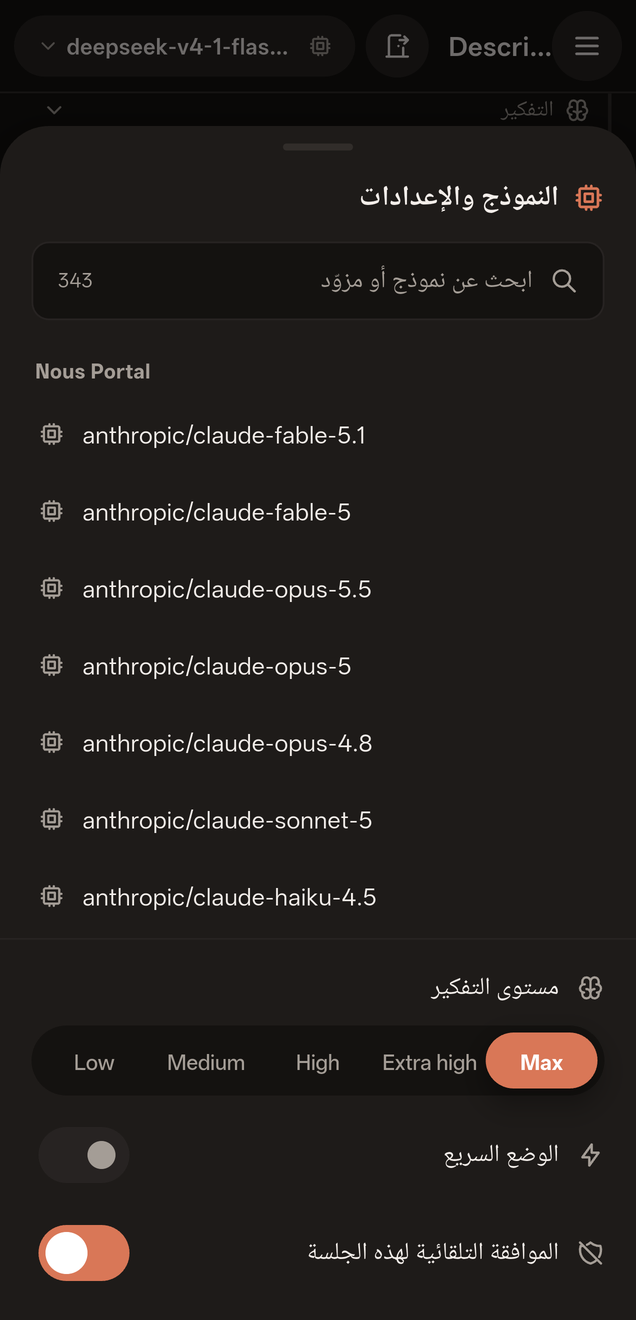
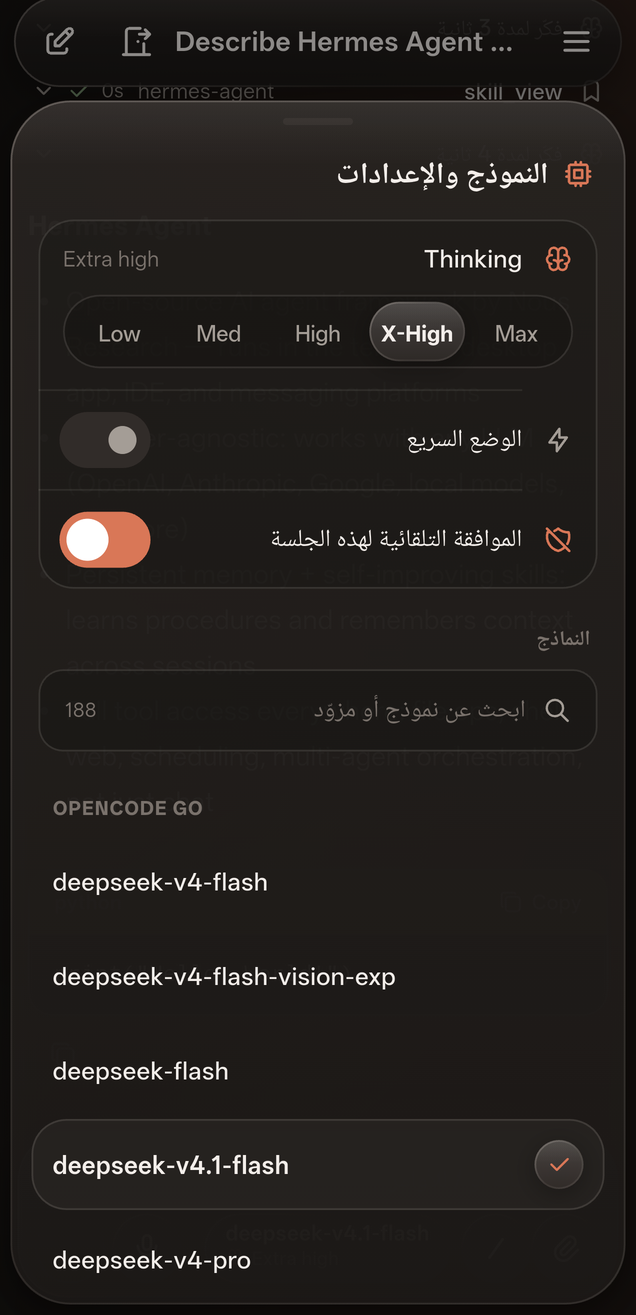
docs: 1.3.0 Liquid Glass screenshots and README

diff --git a/README.md b/README.md
@@ -15,16 +15,17 @@
 
 ## Screenshots
 
-Real captures from an Android phone, not mockups. Private session titles and device-status details are obscured; original unredacted captures are not published. The app currently uses **Arabic RTL UI**, with model names and Thinking levels in English. Repository documentation is in English.
+Real captures of the 1.3.0 Liquid Glass design from an Android phone, not mockups. Private session titles, the gateway host and the status bar are removed; original unredacted captures are not published. The app currently uses **Arabic RTL UI**, with model names and Thinking levels in English. Repository documentation is in English.
 
 <p>
-  <img src="docs/screenshots/chat.png" alt="Hermes Agent Android chat with a real demo response and mobile composer" width="245">
-  <img src="docs/screenshots/models.png" alt="Searchable model picker in the Hermes Mobile remote gateway" width="245">
+  <img src="docs/screenshots/chat.png" alt="Hermes Agent Android chat with a real demo response under the floating glass top bar and composer" width="245">
+  <img src="docs/screenshots/models.png" alt="Glass model sheet with English Thinking levels and the selected model checked" width="245">
   <img src="docs/screenshots/sessions.png" alt="Hermes Android session manager with private session titles blurred" width="245">
 </p>
 
 ## What you can do
 
+- **Liquid Glass design:** the top bar and composer float as glass over the transcript, with spring presses and materializing dialogs, tuned to scroll near 120 Hz on Android.
 - **Chat with your own agent:** streaming text, reasoning sections and tool activity.
 - **Manage sessions:** create, search, reopen and close sessions on the connected server.
 - **Pull a session between devices:** if a session is already open on another device, the app offers to pull it here and re-sends your draft instead of refusing to work. A companion desktop plugin (see below) pulls in the other direction.
